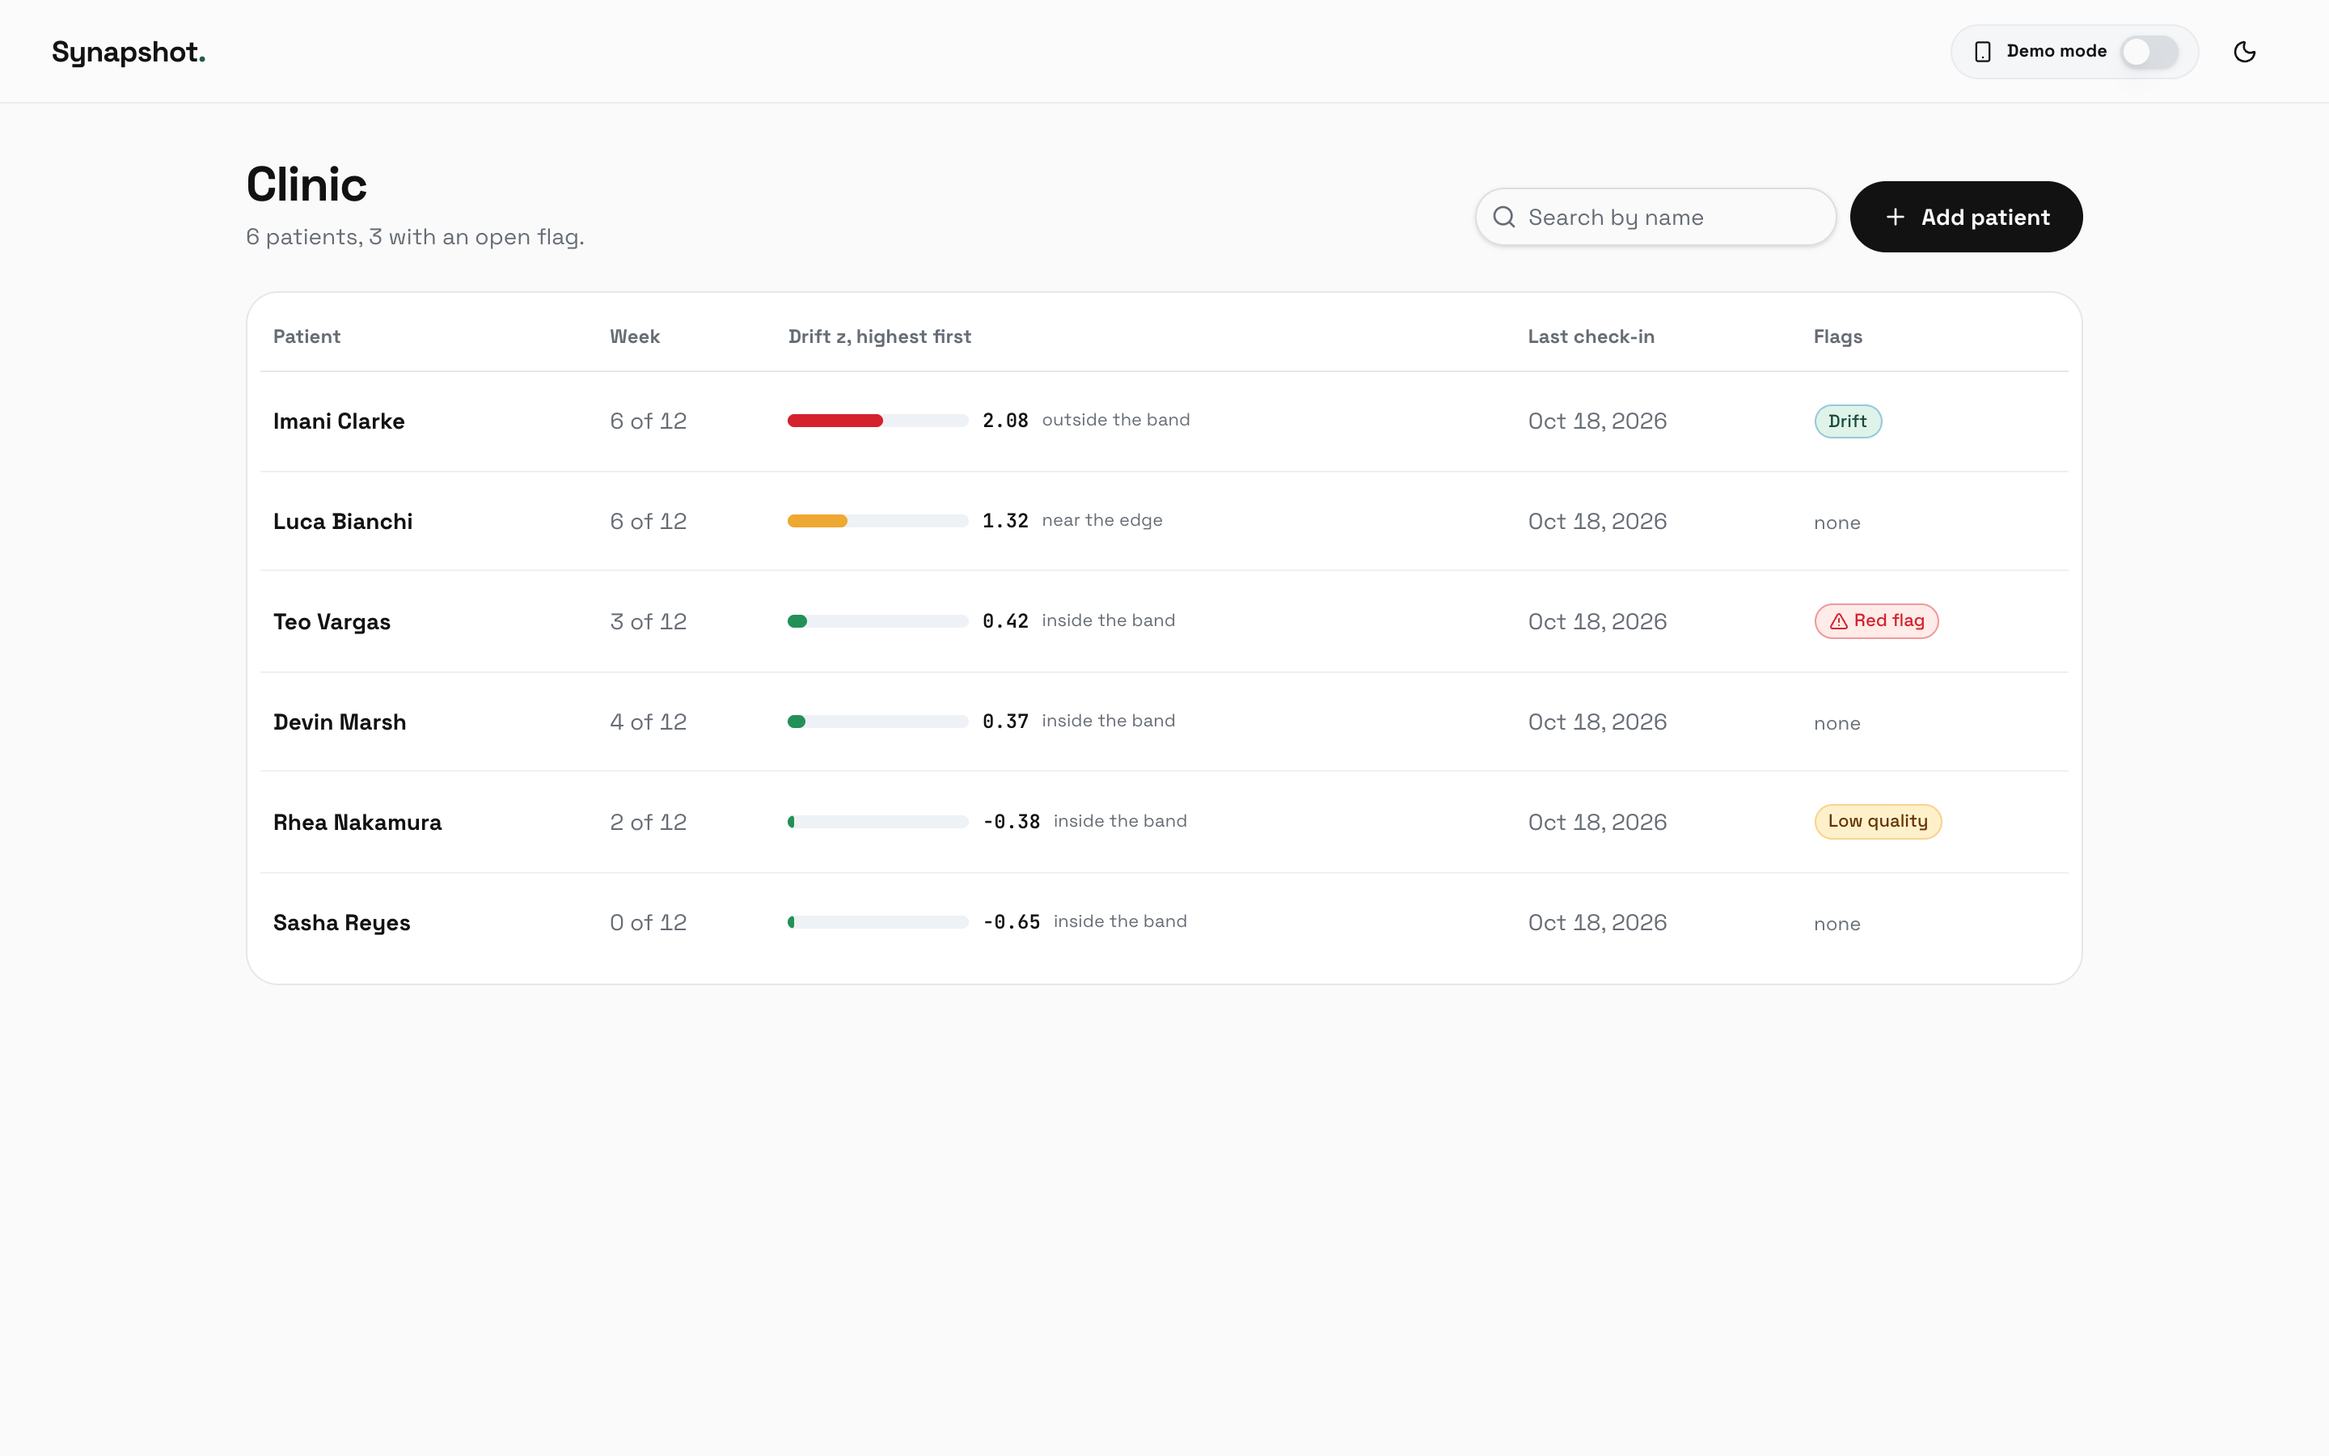
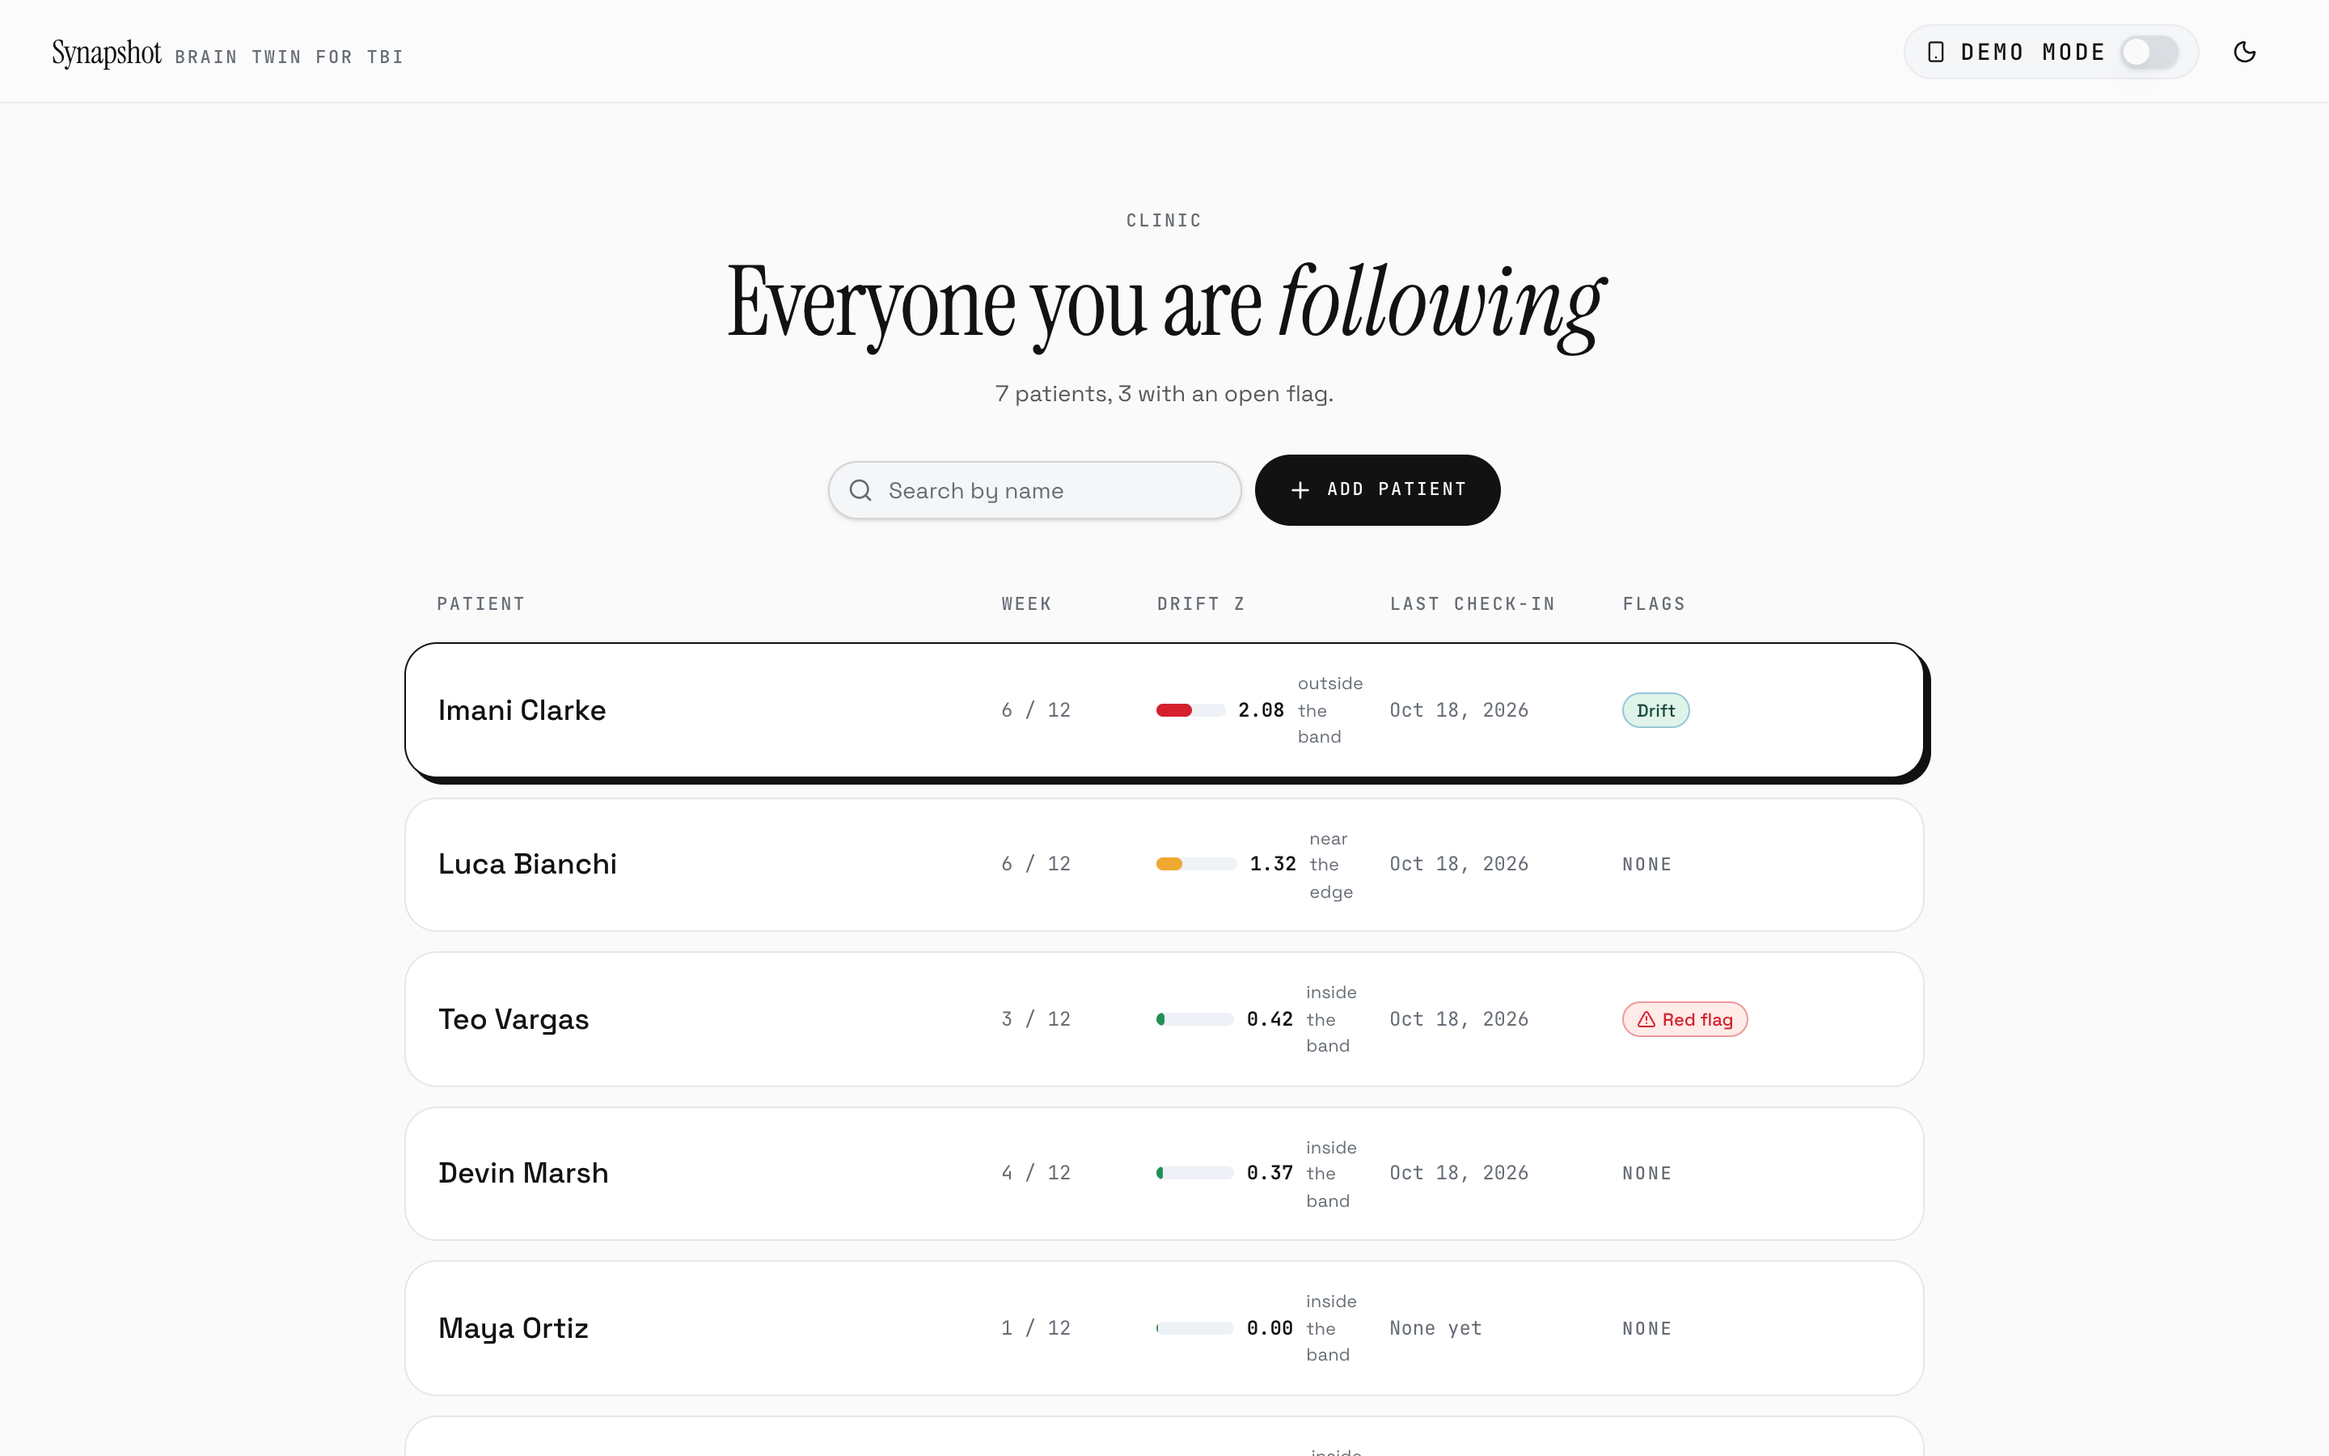
Clinic list and patient profile in the reference style
The clinic list is a mono eyebrow, a serif headline with one italic word, and
flat rows with mono column heads; the highest drift row carries the one hard
offset card so the eye lands on it. It was a bordered table in a panel.

The patient profile sets the name in serif and every label around it in mono
uppercase: the fact row, the rail sections, the fold titles in all four tabs.
Wider gutters and page padding, which is most of what makes it feel calm.

Same rows, numbers, flags and links. Nothing removed.

diff --git a/web/src/pages/Clinic.tsx b/web/src/pages/Clinic.tsx
@@ -18,7 +18,6 @@ import {
 import { DriftBar } from "@/components/panels/DriftBar";
 import { Button } from "@/components/ui/button";
 import { Input } from "@/components/ui/input";
-import { Table, TableBody, TableCell, TableHead, TableHeader, TableRow } from "@/components/ui/table";
 
 export default function Clinic() {
   const { data, isLoading, error, refetch } = usePatients();
@@ -35,23 +34,27 @@ export default function Clinic() {
   const flagged = (data ?? []).filter((p) => p.flags.length > 0).length;
 
   return (
-    <main className="mx-auto w-full max-w-[1200px] flex-1 px-5 py-8 lg:px-8">
-      <div className="mb-6 flex flex-wrap items-end justify-between gap-4">
-        <div>
-          <h1 className="text-3xl font-black tracking-tight">Clinic</h1>
-          <p className="mt-1 text-sm text-muted-foreground">
-            {data ? `${data.length} patients, ${flagged} with an open flag.` : "Loading the list."}
-          </p>
-        </div>
-        <div className="flex w-full flex-wrap items-center gap-2 sm:w-auto">
-          <div className="relative min-w-0 flex-1 sm:flex-none">
-            <Search className="pointer-events-none absolute left-2.5 top-1/2 h-4 w-4 -translate-y-1/2 text-muted-foreground" aria-hidden />
+    <main className="mx-auto w-full max-w-[1100px] flex-1 px-5 py-16 lg:px-8">
+      {/* Mono eyebrow, serif headline with one italic word, one line of grey subcopy.
+          The same shape the reference uses on every screen. */}
+      <header className="mb-10 text-center">
+        <p className="eyebrow text-muted-foreground">Clinic</p>
+        <h1 className="display mt-3 text-5xl sm:text-6xl">
+          Everyone you are <span className="display-em">following</span>
+        </h1>
+        <p className="mt-4 text-sm text-foreground/70">
+          {data ? `${data.length} patients, ${flagged} with an open flag.` : "Loading the list."}
+        </p>
+
+        <div className="mt-7 flex flex-wrap items-center justify-center gap-2">
+          <div className="relative min-w-0">
+            <Search className="pointer-events-none absolute left-3 top-1/2 h-4 w-4 -translate-y-1/2 text-muted-foreground" aria-hidden />
             <Input
               value={query}
               onChange={(e) => setQuery(e.target.value)}
               placeholder="Search by name"
               aria-label="Search patients by name"
-              className="w-full pl-8 sm:w-56"
+              className="w-full rounded-full border-foreground/15 bg-muted/50 pl-9 sm:w-64"
             />
           </div>
           <Button asChild>
@@ -60,7 +63,7 @@ export default function Clinic() {
             </Link>
           </Button>
         </div>
-      </div>
+      </header>
 
       {isLoading && <Loading label="Loading patients" />}
       {error && <ErrorState error={error} onRetry={() => refetch()} />}
@@ -69,52 +72,52 @@ export default function Clinic() {
       {data && data.length > 0 && rows.length === 0 && <Empty>Nobody matches {`"${query}"`}.</Empty>}
 
       {rows.length > 0 && (
-        // The table scrolls inside the panel rather than taking the page sideways with
-        // it. A page that scrolls horizontally on a phone is a layout bug; a table that
-        // does is a table.
-        <div className="panel overflow-x-auto p-0 sm:p-2">
-          <Table className="patient-table">
-            <TableHeader>
-              <TableRow>
-                <TableHead>Patient</TableHead>
-                <TableHead>Week</TableHead>
-                <TableHead>Drift z, highest first</TableHead>
-                <TableHead className="hidden md:table-cell">Last check-in</TableHead>
-                <TableHead>Flags</TableHead>
-              </TableRow>
-            </TableHeader>
-            <TableBody>
-              {rows.map((p) => (
-                <TableRow key={p.id}>
-                  <TableCell>
-                    <Link to={`/patients/${p.id}`} className="font-bold hover:underline">
-                      {p.name}
-                    </Link>
-                  </TableCell>
-                  <TableCell className="text-muted-foreground">{p.week} of 12</TableCell>
-                  <TableCell>
-                    <DriftBar z={p.drift_z} />
-                  </TableCell>
-                  <TableCell className="hidden text-muted-foreground md:table-cell">
-                    {fmtDate(p.last_call)}
-                  </TableCell>
-                  <TableCell>
-                    {p.flags.length === 0 ? (
-                      <span className="text-xs text-muted-foreground">none</span>
-                    ) : (
-                      <span className="flex flex-wrap gap-1.5">
-                        {p.flags.map((f) => (
-                          <FlagChip key={f} flag={f} />
-                        ))}
-                      </span>
-                    )}
-                  </TableCell>
-                </TableRow>
-              ))}
-            </TableBody>
-          </Table>
-        </div>
+        // Flat rows, not a table in a box. Mono column heads, mono numbers, and the
+        // first row, which is the highest drift, carries the one hard offset card on
+        // this screen so the eye lands on it.
+        <ul className="mx-auto max-w-[940px] space-y-3">
+          <li className="grid grid-cols-[1fr_auto] gap-4 px-5 pb-1 sm:grid-cols-[minmax(0,1.6fr)_4.5rem_13rem_7.5rem_minmax(0,0.9fr)]">
+            <span className="eyebrow text-muted-foreground">Patient</span>
+            <span className="eyebrow hidden text-muted-foreground sm:block">Week</span>
+            <span className="eyebrow hidden text-muted-foreground sm:block">Drift z</span>
+            <span className="eyebrow hidden text-muted-foreground sm:block">Last check-in</span>
+            <span className="eyebrow text-right text-muted-foreground sm:text-left">Flags</span>
+          </li>
+
+          {rows.map((p, i) => (
+            <li key={p.id} className={i === 0 ? "featured" : "flat-card"}>
+              <Link
+                to={`/patients/${p.id}`}
+                className="grid grid-cols-[1fr_auto] items-center gap-4 px-5 py-4 sm:grid-cols-[minmax(0,1.6fr)_4.5rem_13rem_7.5rem_minmax(0,0.9fr)]"
+              >
+                <span className="min-w-0">
+                  <span className="block truncate text-lg font-medium">{p.name}</span>
+                  <span className="eyebrow text-muted-foreground sm:hidden">
+                    Week {p.week} of 12
+                  </span>
+                </span>
+                <span className="hidden font-mono text-xs text-muted-foreground sm:block">
+                  {p.week} / 12
+                </span>
+                <span className="hidden sm:block">
+                  <DriftBar z={p.drift_z} />
+                </span>
+                <span className="hidden font-mono text-xs text-muted-foreground sm:block">
+                  {fmtDate(p.last_call)}
+                </span>
+                <span className="flex flex-wrap justify-end gap-1.5 sm:justify-start">
+                  {p.flags.length === 0 ? (
+                    <span className="eyebrow text-muted-foreground">None</span>
+                  ) : (
+                    p.flags.map((f) => <FlagChip key={f} flag={f} />)
+                  )}
+                </span>
+              </Link>
+            </li>
+          ))}
+        </ul>
       )}
+
     </main>
   );
 }

diff --git a/web/src/components/workspace/TopBar.tsx b/web/src/components/workspace/TopBar.tsx
@@ -30,8 +30,8 @@ function Fact({
 }) {
   return (
     <div className={wide ? "min-w-0 max-w-[22ch] xl:max-w-[34ch]" : "min-w-0"} title={title ?? value}>
-      <p className="text-[10px] font-bold uppercase tracking-wide text-muted-foreground">{label}</p>
-      <p className="truncate text-sm font-bold">{value}</p>
+      <p className="eyebrow text-muted-foreground">{label}</p>
+      <p className="mt-1 truncate text-sm">{value}</p>
     </div>
   );
 }
@@ -64,12 +64,13 @@ export function TopBar({
   const mechanism = injury.mechanism || "mechanism not recorded";
 
   return (
-    <header className="no-print flex flex-wrap items-center gap-x-6 gap-y-3 border-b border-border/70 px-4 py-3 lg:px-6">
+    <header className="no-print flex flex-wrap items-center gap-x-8 gap-y-4 border-b border-border/70 px-4 py-5 lg:px-8">
       <div className="min-w-0">
         <div className="flex items-center gap-2">
-          <h1 className="truncate text-xl font-black">{patient.name}</h1>
+          {/* The patient is the headline on this screen, so it is set like one. */}
+          <h1 className="display truncate text-3xl">{patient.name}</h1>
         </div>
-        <p className="text-xs text-muted-foreground">
+        <p className="mt-1 text-xs text-muted-foreground">
           {patient.age}, {patient.sex === "F" ? "female" : "male"}
           {patient.chart?.occupation ? `, ${patient.chart.occupation}` : ""}
         </p>

diff --git a/web/src/pages/Workspace.tsx b/web/src/pages/Workspace.tsx
@@ -157,7 +157,7 @@ export default function Workspace() {
           the page scrolls. Above it they become fixed height columns that scroll inside
           themselves, which is what makes the brain stay put while a tab is read. Trying
           to do both at once was what made them overlap on a phone. */}
-      <div className="grid grid-cols-1 gap-4 px-4 pb-4 lg:min-h-0 lg:flex-1 lg:grid-cols-[260px_minmax(0,1fr)_380px] lg:overflow-hidden lg:px-6 xl:grid-cols-[280px_minmax(0,1fr)_420px]">
+      <div className="grid grid-cols-1 gap-7 px-5 pb-6 lg:min-h-0 lg:flex-1 lg:grid-cols-[250px_minmax(0,1fr)_370px] lg:overflow-hidden lg:px-10 xl:grid-cols-[270px_minmax(0,1fr)_400px]">
         <LeftRail patient={patient.data} stream={stream} />
         <CenterBrain patient={patient.data} />
         <RightPanel patient={patient.data} />

diff --git a/web/src/test/app-routing.test.tsx b/web/src/test/app-routing.test.tsx
@@ -46,7 +46,9 @@ describe("app routing", () => {
 
   it("renders the clinic list against the mock layer", async () => {
     renderAt("/clinic");
-    expect(await screen.findByRole("heading", { name: "Clinic" })).toBeInTheDocument();
+    // "Clinic" is the mono eyebrow above the headline now; the heading is the sentence.
+    expect(await screen.findByRole("heading", { name: /Everyone you are following/i })).toBeInTheDocument();
+    expect(screen.getByText("Clinic")).toBeInTheDocument();
     expect(await screen.findByText(/patients,.*open flag/)).toBeInTheDocument();
     expect(screen.getByRole("link", { name: /Add patient/ })).toBeInTheDocument();
     // The per-row Synthetic badge and the Data column it sat in are gone. A label on

diff --git a/web/src/components/workspace/CenterBrain.tsx b/web/src/components/workspace/CenterBrain.tsx
@@ -173,7 +173,7 @@ export function CenterBrain({ patient }: { patient: Patient }) {
           left, its own toggles top right and its own hint bottom left, and anything put
           over the canvas landed on one of them. The canvas is for the brain. */}
       <div className="flex items-center gap-3 rounded-lg border border-border/70 bg-muted/40 px-3 py-2">
-        <span className="shrink-0 text-[10px] font-bold uppercase tracking-wide text-muted-foreground">
+        <span className="shrink-0 eyebrow text-muted-foreground">
           Week {week}
         </span>
         <Slider

diff --git a/web/src/components/workspace/CallModal.tsx b/web/src/components/workspace/CallModal.tsx
@@ -239,7 +239,7 @@ export function CallModal({
             <div className="flex min-w-0 flex-col items-start gap-3 sm:flex-row">
               <QR text={link} />
               <div className="w-full min-w-0 flex-1 space-y-2">
-                <p className="text-[10px] font-bold uppercase tracking-wide text-muted-foreground">
+                <p className="eyebrow text-muted-foreground">
                   Open on phone
                 </p>
                 <p className="text-[11px] leading-snug text-muted-foreground">

diff --git a/web/src/components/fold.tsx b/web/src/components/fold.tsx
@@ -104,7 +104,7 @@ export function Fold({
           className={cn("h-3.5 w-3.5 shrink-0 transition-transform", !open && "-rotate-90")}
           aria-hidden
         />
-        <span className="shrink-0 text-xs font-black uppercase tracking-wide">{title}</span>
+        <span className="eyebrow shrink-0 text-foreground">{title}</span>
         {!open && summary !== undefined && (
           <span className="min-w-0 flex-1 truncate text-right text-[11px] text-muted-foreground">
             {summary}

diff --git a/DECISIONS.md b/DECISIONS.md
@@ -1550,3 +1550,19 @@ chat bubbles with a tiny mono name above them. Not a dense dashboard.
   eleven sitting above the thing they describe.
 - The build log is a stepper: mono uppercase step name, ink while live and grey otherwise,
   with the detail underneath as a chat bubble.
+
+## 1c: the clinic list and the patient profile
+
+Both now read the way the reference does.
+
+The clinic list is a mono eyebrow, a serif headline with one italic word, one line of grey
+subcopy, a pill search and a black pill button, then flat rows with mono column heads and
+mono numbers. The highest drift row carries the one hard offset card on the screen, so
+the eye lands on the patient who needs looking at. It was a bordered table in a panel.
+
+The patient profile sets the name in serif, because on that screen the patient is the
+headline. Every label around it is mono uppercase: the fact row, the rail sections, the
+fold titles in all four tabs. Gutters went from 4 to 7 and the page padding from 5 to 10,
+which is most of what makes the reference feel calm.
+
+Nothing moved or was removed. Same rows, same numbers, same flags, same links.
